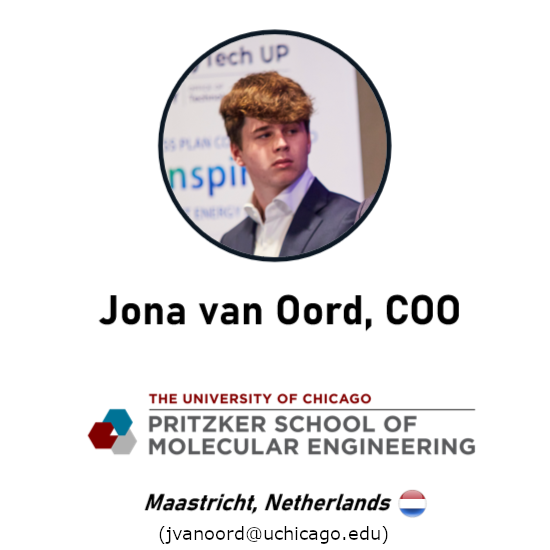
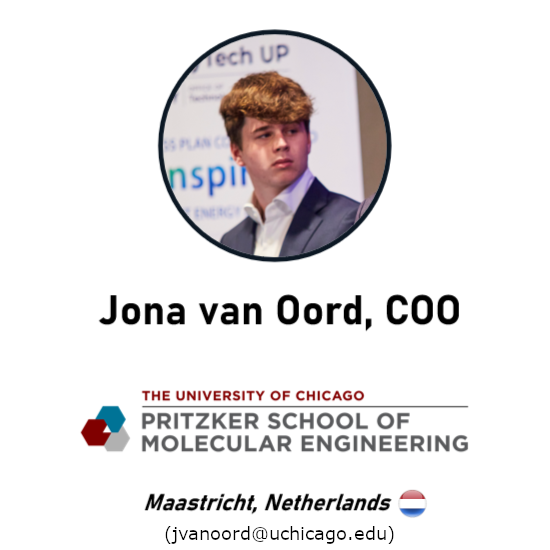
impact title modifications

Changed region(s): [[0.1236, 0.7109, 0.8655, 0.8345], [0.2782, 0.9582, 0.7418, 0.9891]]

diff --git a/impactstyle.css b/impactstyle.css
@@ -23,7 +23,7 @@ body {background-color: black;}
 }
 
 #impact-title-wrap {
-    height: 500px;
+    height: 800px;
 }
 
 #impact-title div {
@@ -40,7 +40,7 @@ body {background-color: black;}
     align-content: center;
     /*padding-top: clamp(80px, 2vw, 300px); */
     max-width:80vw;
-    padding-top: 440px;
+    padding-top: 56vh;
     text-align: center;
     color: black;
     margin-bottom:0;
@@ -55,7 +55,7 @@ body {background-color: black;}
         0 0 10px rgba(0, 0, 0, 0.8),  
         2px 2px 4px rgba(0, 0, 0, 0.6); */
     
-    font-size: clamp(28px, 3.2vw, 65px);
+    font-size: clamp(42px, 3.2vw, 65px);
     font-weight: 200;
     color: rgb(255, 255, 255);
     line-height: 1.1;
@@ -65,7 +65,6 @@ body {background-color: black;}
     text-align: center;
     display: inline-block;
     opacity: 1;
-
     
 }
 
@@ -83,7 +82,7 @@ body {background-color: black;}
     justify-content: center;
     align-items: center;
     background-color: none;
-    margin-top: 85px;
+    margin-top: 5px;
 }
 
 #impact-sec2 p {
@@ -96,6 +95,10 @@ body {background-color: black;}
     max-width: 80vw;
     padding-bottom: 15px;
     color: whitesmoke;
+
+    border: 3px solid #C1913D;
+    border-radius: 12px; 
+    padding: 10px 20px;
 }
 
 #impact-sec2 img {

diff --git a/impact.html b/impact.html
@@ -42,11 +42,13 @@
                 otherwise end up in a landfill or incinerated. 
                 The current process is costly for these businesses.
                 In one case, a company reported paying $50/ton to landfill
-                and $500/ton to incinerate. 
+                and $500/ton to incinerate their plastic waste streams. 
+                We would take this plastic for free, reducing the significant
+                costs of plastic waste disposal. 
             </p>
         </div>
         <div>
-            <img src="images/feedstocknew.png" alt="Small Image" id="impact-feedstock">
+            <img src="images/impact-img.png" alt="Small Image" id="impact-feedstock">
         </div>
         <div>
             <p>Fewer than 60 companies are responsible

diff --git a/script2.js b/script2.js
@@ -161,7 +161,7 @@ document.addEventListener("DOMContentLoaded", function() {
 // Function to make Impact title disappear smoothly
 document.addEventListener("DOMContentLoaded", function() {
     const targetText = document.getElementById("impact-title-main");
-    const scrollTriggerPoint = 300; 
+    const scrollTriggerPoint = 600; 
 
     window.addEventListener("scroll", function() {
         const scrollPosition = window.scrollY;
